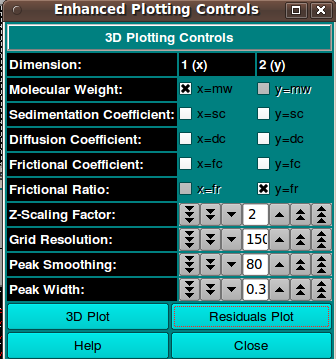
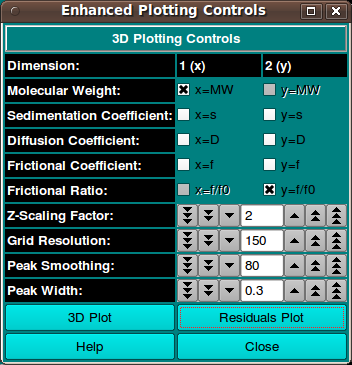
Various minor GUI and documentation mods.
git-svn-id: svn://bcf2.uthscsa.edu/ultrascan3/trunk@464 0b344138-67e3-44e0-be2b-e1ba3e4701c6

diff --git a/programs/us_fematch/us_plot3d.cpp b/programs/us_fematch/us_plot3d.cpp
@@ -259,8 +259,10 @@ US_Plot3D::US_Plot3D( QWidget* p = 0, US_Model* m = 0 )
    dataWidget->enableMouse( true );
    dataWidget->setKeySpeed( 15, 20, 20 );
 
-   dataWidget->setTitleFont( US_GuiSettings::fontFamily(),
-                             US_GuiSettings::fontSize() );
+   titleFont  = QFont( US_GuiSettings::fontFamily(),
+                       US_GuiSettings::fontSize() );
+   dataWidget->setTitleFont( titleFont.family(), titleFont.pointSize(),
+      titleFont.weight() );
    dataWidget->setTitle( tr( "Model 3-D Plot" ) );
 
    dataWidget->setPlotStyle(       FILLEDMESH );
@@ -937,16 +939,12 @@ void US_Plot3D::createToolBar()
    normsAct ->setStatusTip( tr( "Show normal vectors" ) );
 
    addToolBar( fileToolBar );
-qDebug() << "pre-adjust tbar size" << fileToolBar->size();
    fileToolBar->adjustSize();
-qDebug() << "post-adjust tbar size" << fileToolBar->size();
    int wdim  = qRound( (double)fileToolBar->size().width() * 0.75 );
    int hdim  = qRound( (double)wdim * 0.75 );
    setMinimumSize( wdim, hdim );
    adjustSize();
-qDebug() << "post-adjust mainw size" << size();
-   wdim  = qRound( (double)size().width() * 0.75 );
-   //setMinimumSize( wdim, wdim );
+wdim  = qRound( (double)size().width() * 0.75 );
 qDebug() << "  min x,y dim" << wdim;
 }
 
@@ -1312,7 +1310,7 @@ qDebug() << "close_all";
 // pick axes color
 void US_Plot3D::pick_axes_co()
 {
-   QColor cc = QColorDialog::getColor( Qt::white, this,
+   QColor cc = QColorDialog::getColor( Qt::black, this,
          tr( "Select Axes Color" ) );
    Qwt3D::RGBA rgb = Qt2GL( cc );
    dataWidget->coordinates()->setAxesColor( rgb );
@@ -1330,16 +1328,17 @@ void US_Plot3D::pick_back_co()
 // pick mesh color
 void US_Plot3D::pick_mesh_co()
 {
-   QColor cc = QColorDialog::getColor( Qt::white, this,
+   QColor cc = QColorDialog::getColor( Qt::black, this,
          tr( "Select Mesh Color" ) );
    Qwt3D::RGBA rgb = Qt2GL( cc );
    dataWidget->setMeshColor( rgb );
+   dataWidget->updateData();
    dataWidget->updateGL();
 }
 // pick number color
 void US_Plot3D::pick_numb_co()
 {
-   QColor cc = QColorDialog::getColor( Qt::white, this,
+   QColor cc = QColorDialog::getColor( Qt::black, this,
          tr( "Select Number Color" ) );
    Qwt3D::RGBA rgb = Qt2GL( cc );
    dataWidget->coordinates()->setNumberColor( rgb );
@@ -1348,7 +1347,7 @@ void US_Plot3D::pick_numb_co()
 // pick label color
 void US_Plot3D::pick_labl_co()
 {
-   QColor cc = QColorDialog::getColor( Qt::white, this,
+   QColor cc = QColorDialog::getColor( Qt::black, this,
          tr( "Select Label Color" ) );
    Qwt3D::RGBA rgb = Qt2GL( cc );
    dataWidget->coordinates()->setLabelColor( rgb );
@@ -1357,7 +1356,7 @@ void US_Plot3D::pick_labl_co()
 // pick caption color
 void US_Plot3D::pick_capt_co()
 {
-   QColor cc = QColorDialog::getColor( Qt::white, this,
+   QColor cc = QColorDialog::getColor( Qt::black, this,
          tr( "Select Caption Color" ) );
    Qwt3D::RGBA rgb = Qt2GL( cc );
    dataWidget->setTitleColor( rgb );
@@ -1403,14 +1402,12 @@ void US_Plot3D::pick_data_co()
 // reset to default colors
 void US_Plot3D::reset_colors()
 {
-   Qwt3D::StandardColor* stdcol;
-
    if ( !dataWidget )
       return;
 
-   const Qwt3D::RGBA blackc = Qt2GL( QColor( Qt::black ) );
-   const Qwt3D::RGBA whitec = Qt2GL( QColor( Qt::white ) );
-   stdcol = new StandardColor( dataWidget );
+   const Qwt3D::RGBA     blackc = Qt2GL( QColor( Qt::black ) );
+   const Qwt3D::RGBA     whitec = Qt2GL( QColor( Qt::white ) );
+   Qwt3D::StandardColor* stdcol = new StandardColor( dataWidget );
 
    dataWidget->coordinates()->setAxesColor(   blackc );
    dataWidget->coordinates()->setNumberColor( blackc );
@@ -1429,8 +1426,7 @@ void US_Plot3D::reset_colors()
 void US_Plot3D::pick_numb_fn()
 {
    bool  ok;
-   QFont oldfont( US_GuiSettings::fontFamily(),
-                  US_GuiSettings::fontSize() );
+   QFont oldfont = dataWidget->coordinates()->axes[X1].numberFont();
    QFont newfont = QFontDialog::getFont( &ok, oldfont, this,
       tr( "Select Scale Numbers Font" ) );
 
@@ -1444,8 +1440,7 @@ void US_Plot3D::pick_numb_fn()
 void US_Plot3D::pick_axes_fn()
 {
    bool  ok;
-   QFont oldfont( US_GuiSettings::fontFamily(),
-                  US_GuiSettings::fontSize() );
+   QFont oldfont = dataWidget->coordinates()->axes[X1].labelFont();
    QFont newfont = QFontDialog::getFont( &ok, oldfont, this,
       tr( "Select Axes Labels Font" ) );
 
@@ -1459,16 +1454,16 @@ void US_Plot3D::pick_axes_fn()
 void US_Plot3D::pick_capt_fn()
 {
    bool  ok;
-   QFont oldfont( US_GuiSettings::fontFamily(),
-                  US_GuiSettings::fontSize() );
-   QFont newfont = QFontDialog::getFont( &ok, oldfont, this,
+   QFont newfont = QFontDialog::getFont( &ok, titleFont, this,
       tr( "Select Title Caption Font" ) );
 
    if ( !ok )
       return;
 
-   dataWidget->setTitleFont( newfont.family(), newfont.pointSize() );
+   dataWidget->setTitleFont( newfont.family(), newfont.pointSize(),
+      newfont.weight() );
    dataWidget->updateGL();
+   titleFont = newfont;
 }
 // rset fonts
 void US_Plot3D::reset_fonts()

diff --git a/programs/us_fematch/us_plot_control.cpp b/programs/us_fematch/us_plot_control.cpp
@@ -1,4 +1,3 @@
-
 //! \file us_plot_control.cpp
 
 #include "us_fematch.h"
@@ -12,16 +11,16 @@
 US_PlotControl::US_PlotControl( QWidget* p, US_Model* amodel )
    : US_WidgetsDialog( 0, 0 )
 {
-
    wparent        = p;
    model          = amodel;
 
    setObjectName( "US_PlotControl" );
    setAttribute( Qt::WA_DeleteOnClose, true );
+   setPalette( US_GuiSettings::frameColor() );
+   setFont( QFont( US_GuiSettings::fontFamily(), US_GuiSettings::fontSize() ) );
 
    // lay out the GUI
    setWindowTitle( tr( "Enhanced Plotting Controls" ) );
-   setPalette( US_GuiSettings::frameColor() );
 
    mainLayout      = new QVBoxLayout( this );
    controlsLayout  = new QGridLayout( );
@@ -54,16 +53,16 @@ US_PlotControl::US_PlotControl( QWidget* p, US_Model* amodel )
    QPushButton* pb_help   = us_pushbutton( tr( "Help" ) );
    QPushButton* pb_close  = us_pushbutton( tr( "Close" ) );
 
-   QCheckBox*   ck_xmwt   = new QCheckBox( tr( "x=mw" ) );
-   QCheckBox*   ck_ymwt   = new QCheckBox( tr( "y=mw" ) );
-   QCheckBox*   ck_xsed   = new QCheckBox( tr( "x=sc" ) );
-   QCheckBox*   ck_ysed   = new QCheckBox( tr( "y=sc" ) );
-   QCheckBox*   ck_xdif   = new QCheckBox( tr( "x=dc" ) );
-   QCheckBox*   ck_ydif   = new QCheckBox( tr( "y=dc" ) );
-   QCheckBox*   ck_xfco   = new QCheckBox( tr( "x=fc" ) );
-   QCheckBox*   ck_yfco   = new QCheckBox( tr( "y=fc" ) );
-   QCheckBox*   ck_xfra   = new QCheckBox( tr( "x=fr" ) );
-   QCheckBox*   ck_yfra   = new QCheckBox( tr( "y=fr" ) );
+   QCheckBox*   ck_xmwt   = new QCheckBox( tr( "x=MW"   ) );
+   QCheckBox*   ck_ymwt   = new QCheckBox( tr( "y=MW"   ) );
+   QCheckBox*   ck_xsed   = new QCheckBox( tr( "x=s"    ) );
+   QCheckBox*   ck_ysed   = new QCheckBox( tr( "y=s"    ) );
+   QCheckBox*   ck_xdif   = new QCheckBox( tr( "x=D"    ) );
+   QCheckBox*   ck_ydif   = new QCheckBox( tr( "y=D"    ) );
+   QCheckBox*   ck_xfco   = new QCheckBox( tr( "x=f"    ) );
+   QCheckBox*   ck_yfco   = new QCheckBox( tr( "y=f"    ) );
+   QCheckBox*   ck_xfra   = new QCheckBox( tr( "x=f/f0" ) );
+   QCheckBox*   ck_yfra   = new QCheckBox( tr( "y=f/f0" ) );
 
    QwtCounter* ct_zscalefac = us_counter( 3,  0.1,   10, 0.01 );
    QwtCounter* ct_gridreso  = us_counter( 3,   50,  300,   10 );
@@ -131,27 +130,17 @@ US_PlotControl::US_PlotControl( QWidget* p, US_Model* amodel )
    yCheck[ 3 ] = ck_yfco;
    yCheck[ 4 ] = ck_yfra;
 
-   ck_xmwt->setFont( pb_help->font() );
-   ck_ymwt->setFont( pb_help->font() );
-   ck_xsed->setFont( pb_help->font() );
-   ck_ysed->setFont( pb_help->font() );
-   ck_xdif->setFont( pb_help->font() );
-   ck_ydif->setFont( pb_help->font() );
-   ck_xfco->setFont( pb_help->font() );
-   ck_yfco->setFont( pb_help->font() );
-   ck_xfra->setFont( pb_help->font() );
-   ck_yfra->setFont( pb_help->font() );
-
-   ck_xmwt->setPalette( US_GuiSettings::normalColor() );
-   ck_ymwt->setPalette( US_GuiSettings::normalColor() );
-   ck_xsed->setPalette( US_GuiSettings::normalColor() );
-   ck_ysed->setPalette( US_GuiSettings::normalColor() );
-   ck_xdif->setPalette( US_GuiSettings::normalColor() );
-   ck_ydif->setPalette( US_GuiSettings::normalColor() );
-   ck_xfco->setPalette( US_GuiSettings::normalColor() );
-   ck_yfco->setPalette( US_GuiSettings::normalColor() );
-   ck_xfra->setPalette( US_GuiSettings::normalColor() );
-   ck_yfra->setPalette( US_GuiSettings::normalColor() );
+   QPalette gpalette = US_GuiSettings::normalColor();
+   ck_xmwt->setPalette( gpalette );
+   ck_ymwt->setPalette( gpalette );
+   ck_xsed->setPalette( gpalette );
+   ck_ysed->setPalette( gpalette );
+   ck_xdif->setPalette( gpalette );
+   ck_ydif->setPalette( gpalette );
+   ck_xfco->setPalette( gpalette );
+   ck_yfco->setPalette( gpalette );
+   ck_xfra->setPalette( gpalette );
+   ck_yfra->setPalette( gpalette );
 
    zscale   = 2.0;
    gridres  = 150.0;
@@ -207,6 +196,10 @@ US_PlotControl::US_PlotControl( QWidget* p, US_Model* amodel )
 
    resplotd = 0;
    plot3d_w = 0;
+
+   lb_sedcoeff ->adjustSize();
+   ct_zscalefac->setMinimumWidth( lb_sedcoeff->width() );
+   adjustSize();
 }
 
 // return caller of plot_control

diff --git a/programs/us_fematch/us_plot3d.h b/programs/us_fematch/us_plot3d.h
@@ -110,7 +110,7 @@ class US_EXTERN US_Plot3D : public QMainWindow
       QCheckBox*    ck_mouse;
       QCheckBox*    ck_shade;
 
-      US_Plot*      plotLayout1;
+      QFont         titleFont;
 
       bool          have_ed;
       bool          skip_plot;
